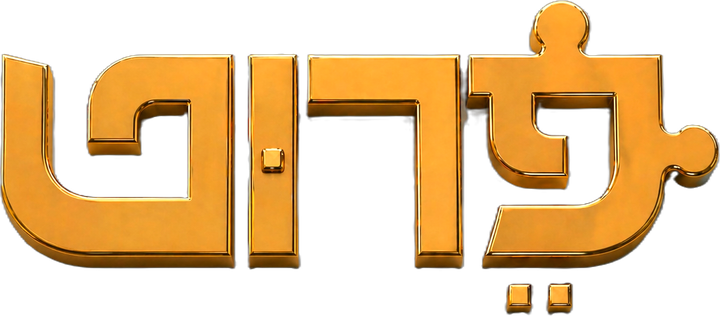
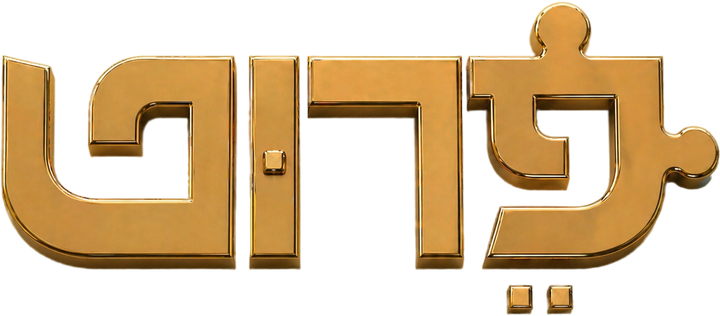
fix(branding): new gold 3D hero — clean transparency + CSS polish
- Replace hero PNG/WebP with new gold 3D פירוט wordmark (source: peroot_logo_pack/image.png)
  - Source already has proper alpha channel (79% transparent) — trim + resize only
  - Peroot-hero.png: 720x316 transparent (273KB)
  - Peroot-hero.webp: 720x316 transparent (40KB)
  - logo.png: 480x211 opaque #0a0a0a background (116KB)
  - logo.svg (both locations): SVG wrapper with embedded WebP
- Remove hero-logo-float animation (no more up/down movement)
- Container: 360x140 → 270x105px desktop, 200x78 → 150x59px mobile (25% smaller)
- Remove light-mode color inversion filter (same gold appearance in dark + light)

diff --git a/Prut/web/src/app/globals.css b/Prut/web/src/app/globals.css
@@ -743,17 +743,17 @@ a:focus-visible,
   display: flex;
   align-items: center;
   justify-content: center;
-  width: 360px;
-  height: 140px;
+  width: 270px;
+  height: 105px;
   overflow: hidden;
   contain: layout;
 }
 
 @media (max-width: 768px) {
   .hero-logo-container {
-    max-width: 200px;
+    max-width: 150px;
     width: 100%;
-    height: 78px;
+    height: 59px;
   }
 }
 
@@ -797,25 +797,6 @@ a:focus-visible,
   pointer-events: none;
 }
 
-.hydrated .hero-logo-image {
-  animation: hero-logo-float 4s ease-in-out infinite;
-}
-
-:root:not(.dark) .hero-logo-image {
-  filter: brightness(0.15) sepia(1) saturate(3) hue-rotate(-10deg) drop-shadow(0 0 40px rgba(180, 83, 9, 0.4));
-}
-
-
-/* Floating animation for logo */
-@keyframes hero-logo-float {
-  0%,
-  100% {
-    transform: translateY(0) translateZ(0);
-  }
-  50% {
-    transform: translateY(-6px) translateZ(0);
-  }
-}
 
 /* Animated rings around logo */
 .hero-logo-ring {
